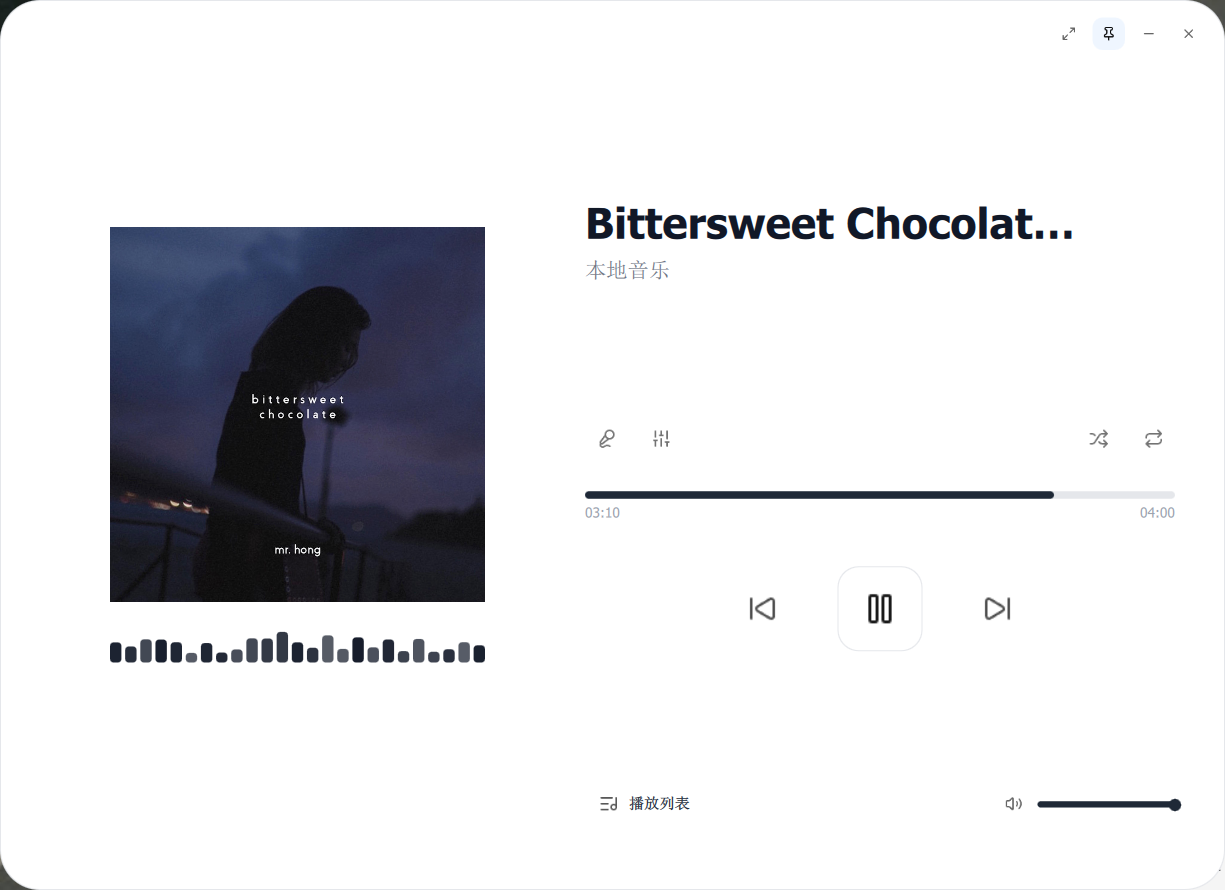
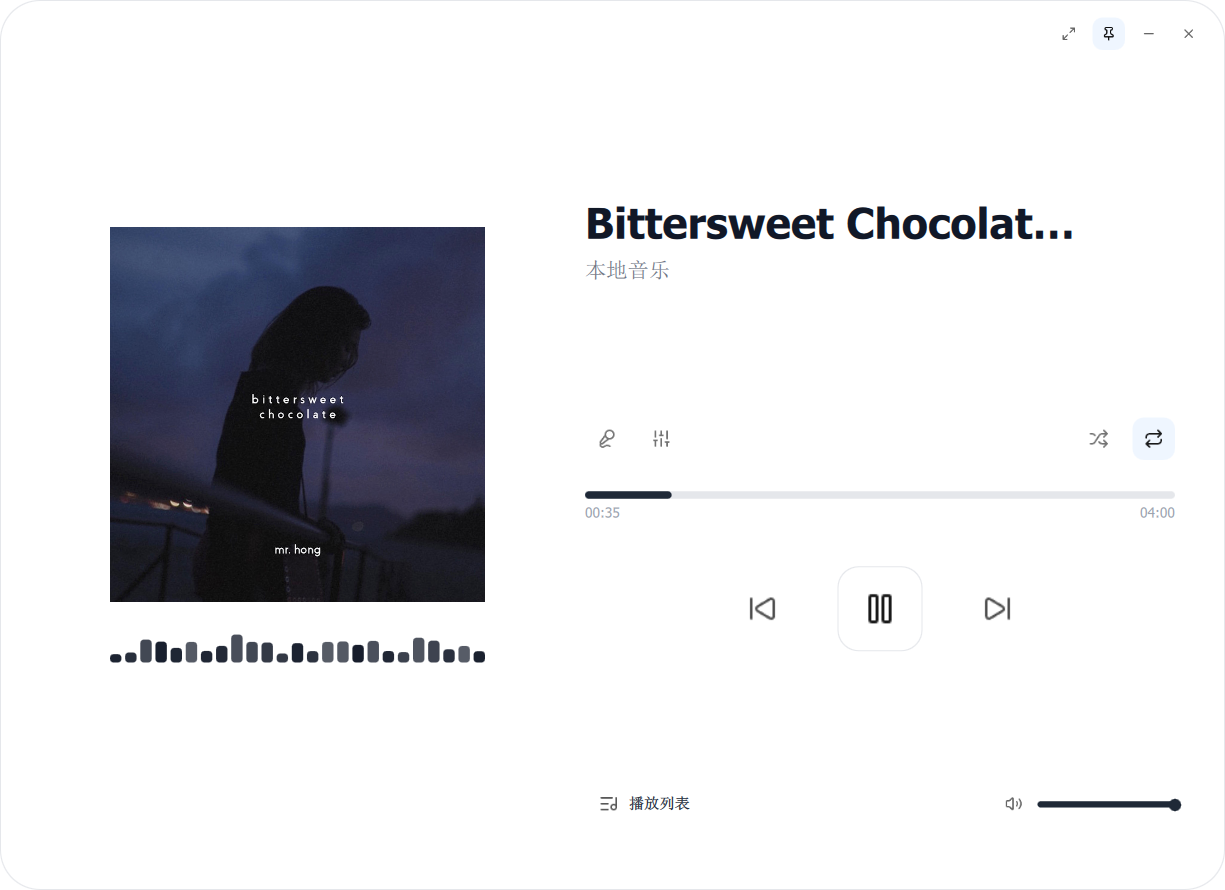
update: README.md

diff --git a/README.md b/README.md
@@ -1,14 +1,21 @@
-# MusicPlayer
+<p align="center">
+  <img src="resources/icons/listen1.ico" width="128" height="128" />
+</p>
 
-![icon](resources/icons/listen1.ico)
+<h1 align="center">MusicPlayer</h1>
 
-A modern, minimalist music player built with Qt 6 QML.
+<p align="center">
+  A modern, minimalist music player built with Qt 6 QML.
+</p>
+
+---
 
 ## Screenshots
 
-![Full Mode](examples/full.png)
-
-![Mini Mode](examples/mini.png)
+<p align="center">
+  <img src="examples/full.png" width="45%" />
+  <img src="examples/mini.png" width="45%" />
+</p>
 
 ## Features
 
@@ -21,20 +28,20 @@ A modern, minimalist music player built with Qt 6 QML.
 
 ## Recent Changes
 
-### UI Fixes
-- `IconButton.qml`: Removed flashing hover background
-- `AlbumArt.qml`: Fixed image not rendering (removed problematic layer.effect)
-- `WindowControls.qml`: Repositioned pin button
-- `MiniPlayer.qml`: Adjusted margins for visual balance
-- `PlaylistOverlay.qml`: Fixed close button cursor (z-index and MouseArea structure)
-- `Main.qml`: Hide dragArea when playlist open to prevent cursor conflicts
+### UI Polish
+- **IconButton**: Removed flashing hover background
+- **AlbumArt**: Fixed image rendering issues
+- **MiniPlayer**: Adjusted padding for visual balance
+- **PlaylistOverlay**: Fixed close button cursor interaction
+- **WindowControls**: Optimised layout and pin button position
 
-### Features
-- Edge snapping in mini mode (20px threshold)
-- System tray menu with icons for all actions
+### New Features
+- **Edge Snapping**: Mini player automatically snaps to screen edges (20px threshold)
+- **System Tray**: Enhanced menu with icons for all actions
 
 ### Bug Fixes
-- `musicplayer.cpp`: Fixed auto-play song info not updating (emit musicStart on track change)
+- Fixed song info not updating on auto-play
+- Fixed cursor conflicts in playlist overlay
 
 ## Build
 
@@ -45,6 +52,6 @@ cmake --build build --config Release
 
 ## Tech Stack
 
-- Qt 6.10+ (QtQuick, QtMultimedia with FFmpeg)
-- C++17
-- QML
+- **Framework**: Qt 6.10+ (QtQuick, QtMultimedia)
+- **Language**: C++17, QML
+- **Media Engine**: FFmpeg
